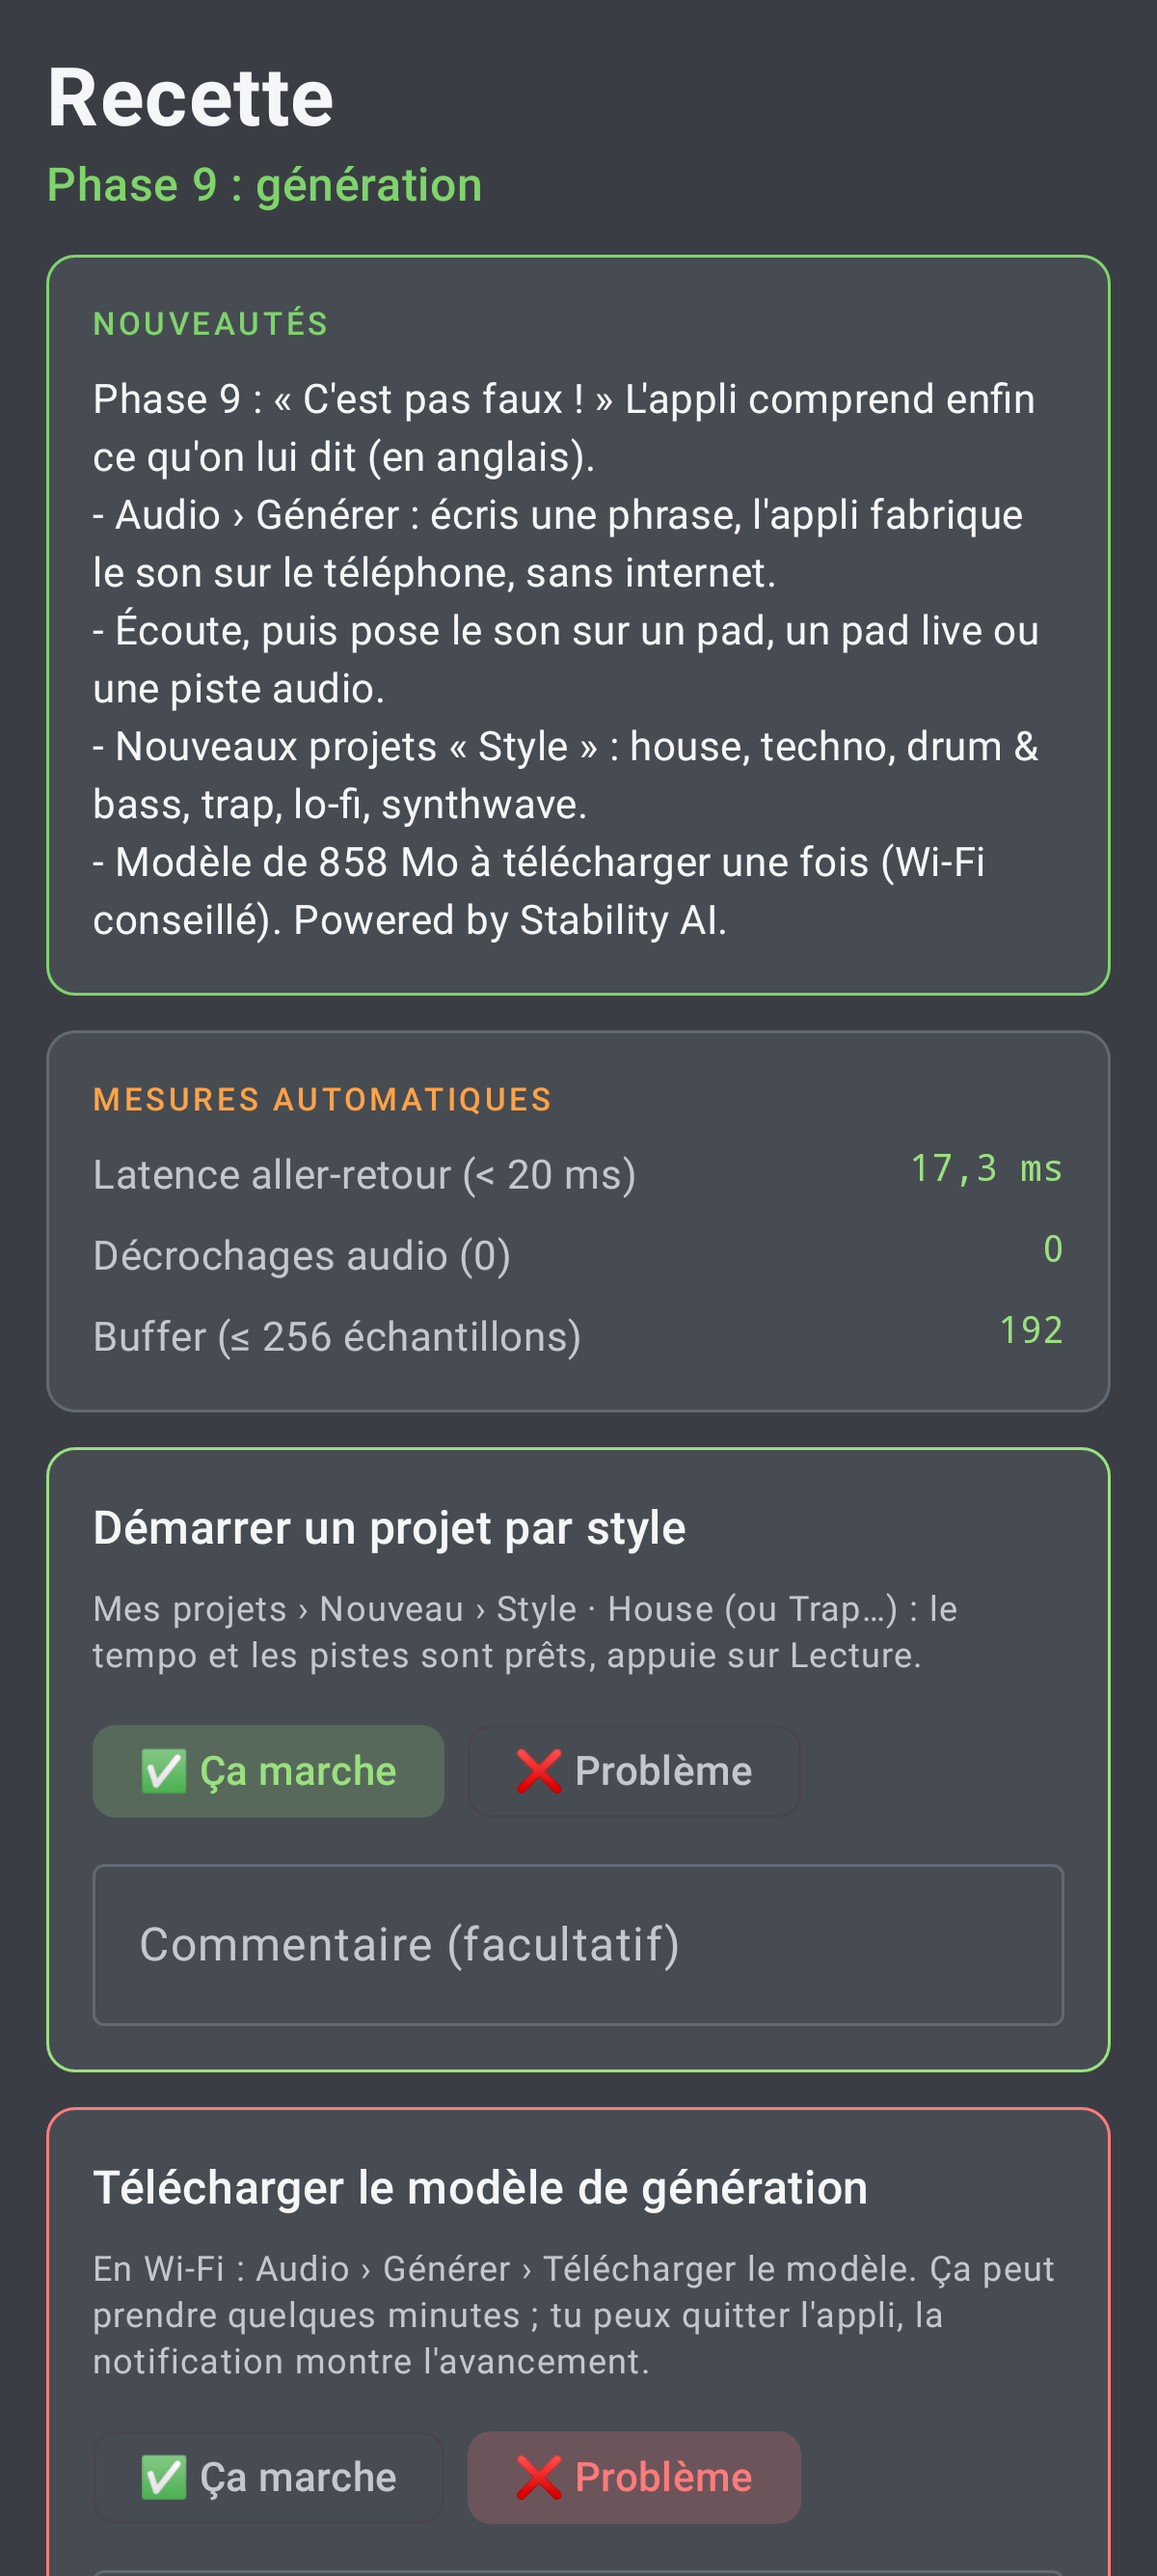
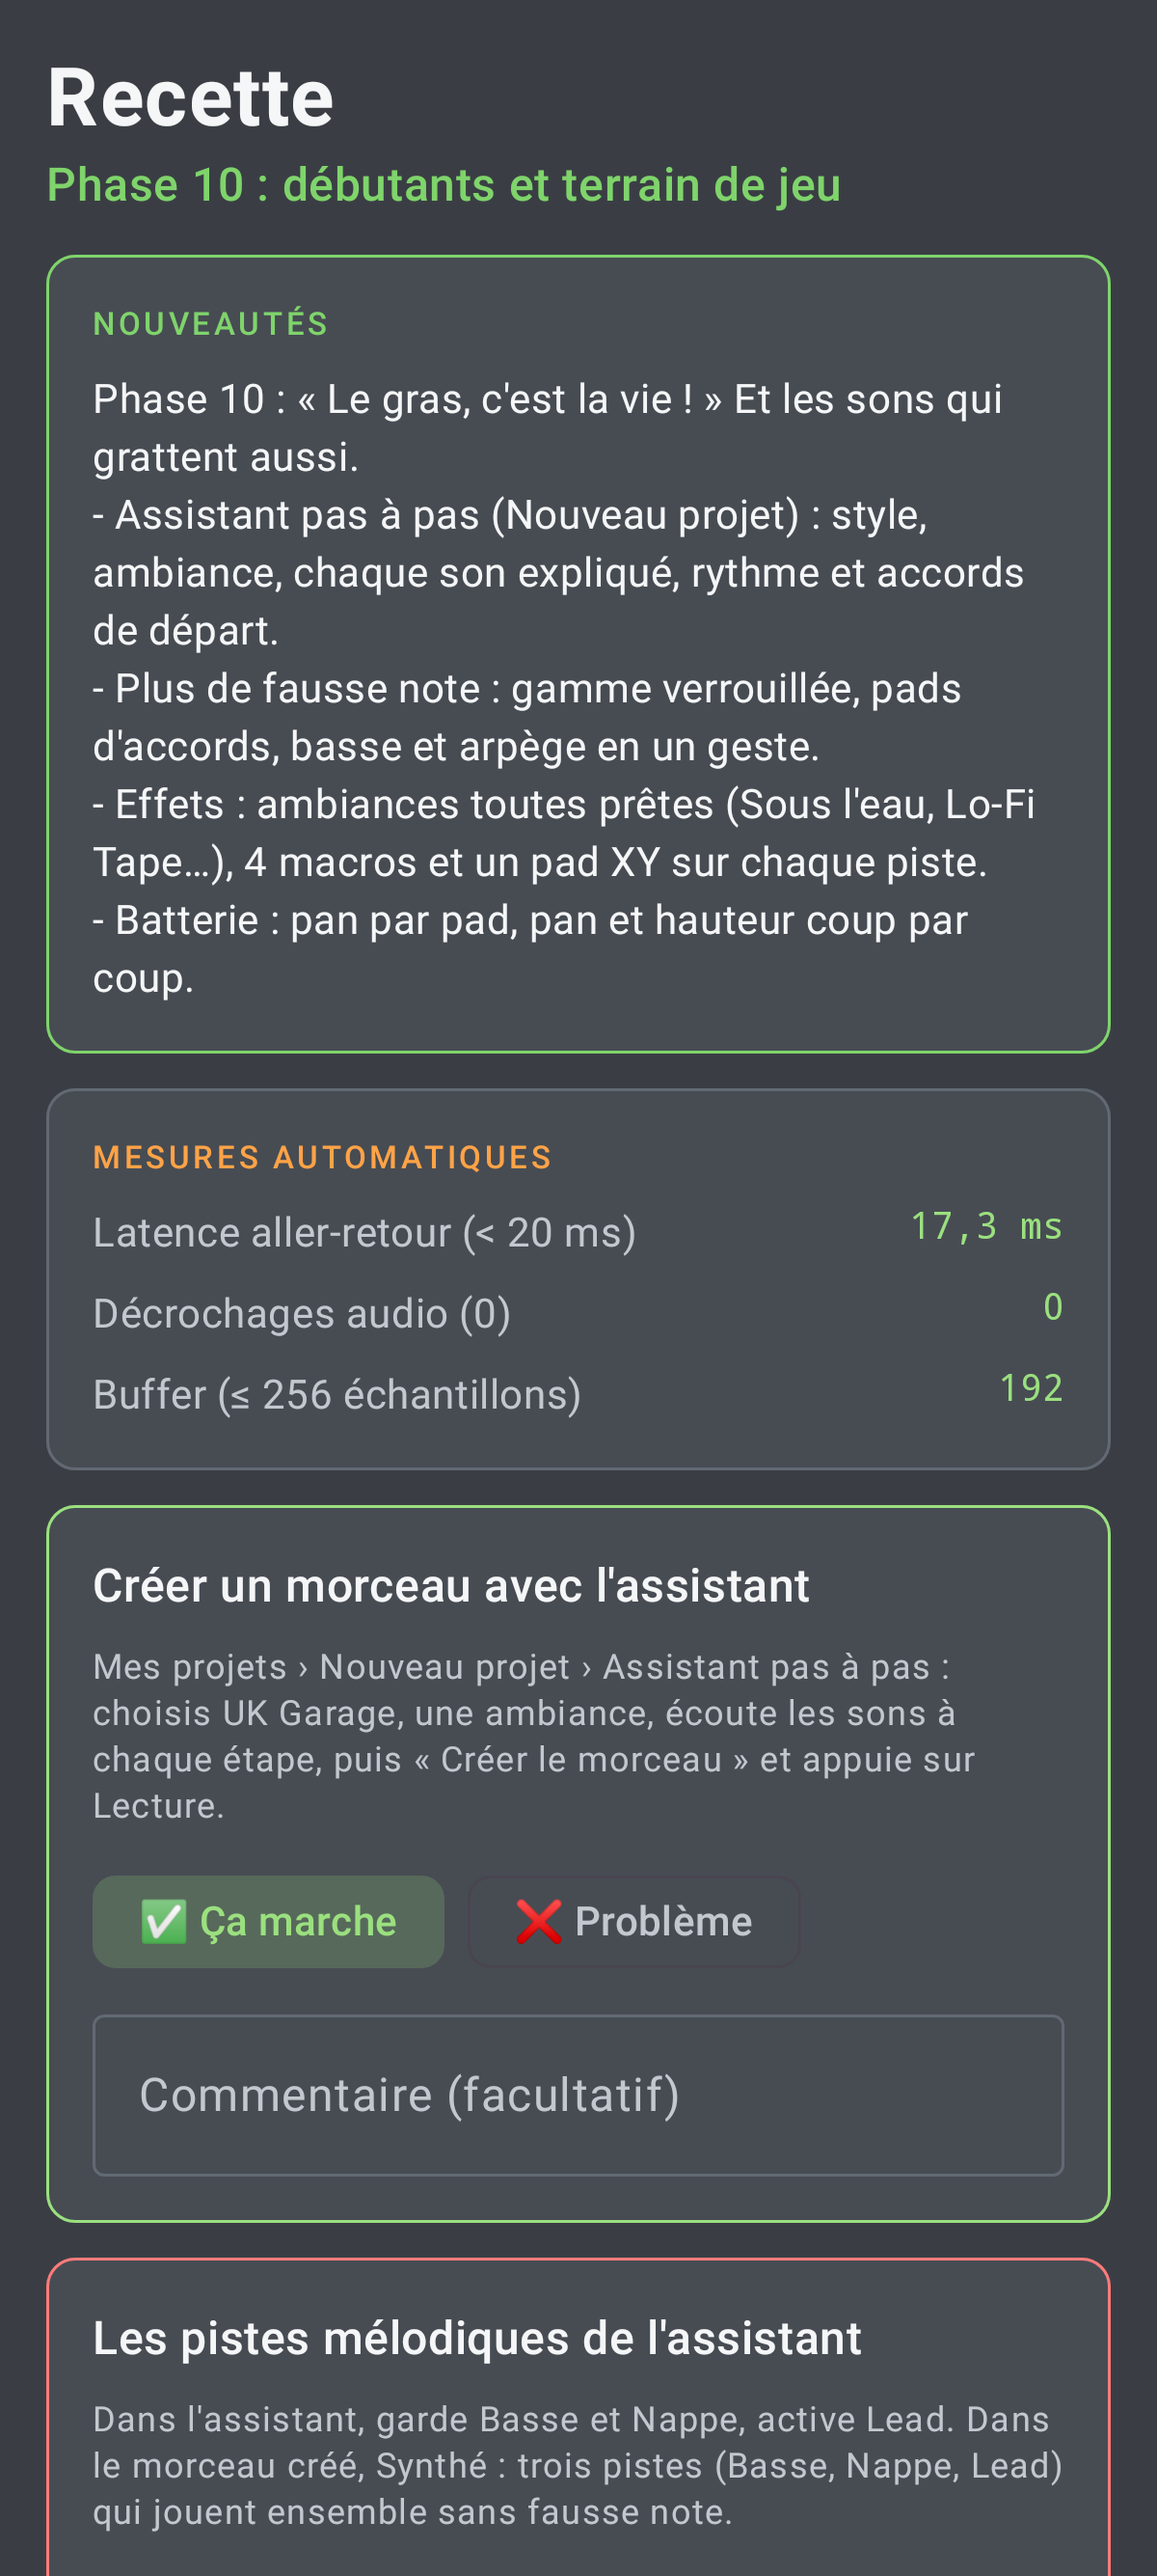
Phase 10: docs, changelog, test list
Claude-Session: https://claude.ai/code/session_01NqonxZBBysqqWBbnsC2VTP

diff --git a/docs/DECISIONS.md b/docs/DECISIONS.md
@@ -120,3 +120,9 @@
 - 2026-10-20 · Stable Audio Open Small par ONNX Runtime (déjà dans l'appli pour Demucs) plutôt que LiteRT : l'export officiel LiteRT demande un compte Hugging Face accepté ; l'export ONNX tiers d'atauser001 (révision figée, licence Stability redistribuable avec LICENSE + NOTICE) marche sans. Retour arrière : exporter en LiteRT nous-mêmes.
 - 2026-10-20 · Allègement int8 : conditionneur T5 entier, DiT seulement les matrices des couches transformer (par canal), décodeur en float. Tout en int8 abîmait le son plus qu'un changement de graine. 858 Mo à télécharger, pic mémoire mesuré 1,4 Go pour 11 s (réserve d'ONNX coupée). Le modèle se télécharge par le service de séparation (premier plan, reprise fichier par fichier) ; la génération elle-même tourne dans l'appli (quelques secondes).
 - 2026-10-20 · Génération : textes en anglais (le modèle comprend mal le français), exemples en français qui remplissent la phrase anglaise au tempo du projet ; 1 à 11 s ; écoute hors moteur (AudioTrack Android), puis pose sur le pad choisi, un pad live libre ou une piste audio libre.
+- 2026-10-20 · Batterie en stéréo (pan par pad, pan et hauteur par coup) : SetDrumHit remet pan et hauteur à zéro, une commande SetDrumStepDetail ne suit que pour les coups qui en ont, la file de commandes ne grossit pas. Hauteur par coup : sons importés seulement (les sons synthétisés n'ont pas de réglage de hauteur).
+- 2026-10-20 · Assistant pas à pas : il ne compose pas, il guide (rôle de chaque ligne, son de la bibliothèque) et pose des rythmes et accords d'école. Les sons intégrés sont rendus par le moteur hors ligne pour l'écoute ; un son posé sur un autre pad que le sien est copié en fichier dans le projet.
+- 2026-10-20 · Packs de sons : un index sur notre Release, épinglé par SHA-256 dans le code une fois publié (null avant : l'appli dit « bientôt »), chaque pack .zip vérifié par son empreinte, plat (pas de dossiers), supprimable à tout moment. Fabriqués par Stable Audio Open (sorties libres d'usage selon la licence Stability) plutôt que des packs du web, rarement redistribuables.
+- 2026-10-20 · Verrouillage de gamme : touches hors gamme muettes plutôt que cachées (le clavier garde sa forme, on voit la gamme) ; MIDI recalé sur la note la plus proche.
+- 2026-10-20 · Effets créatifs : 4 macros par voie dans le moteur après les inserts (filtre, saturation à volume constant, chorus, envois) plutôt que de piloter les inserts existants : elles marchent quelle que soit la chaîne, au repos le son est identique à l'échantillon près. Ambiances = inserts + envois + macros d'un coup.
+

diff --git a/docs/PROGRESS.md b/docs/PROGRESS.md
@@ -105,5 +105,14 @@
   - 9.2 fait : 6 projets « Style » (house, techno, drum & bass, trap, lo-fi, synthwave) dans Nouveau projet.
   - 9.1 fait : Stable Audio Open Small sur le téléphone (ONNX Runtime, int8 partiel, 858 Mo sur la Release `modele-stable-audio-open-small-1`), tokeniseur T5 en Kotlin, Audio › Générer (phrase, exemples, durée 1 à 11 s, écoute, pose sur pad / pad live / piste audio). Test Linux : `STABLE_AUDIO_DIR=… ./scripts/separation-tests.sh`.
 
+- Phase 9 fusionnée (PR #19).
+- Phase 10 (branche ccr-80af1a1b-mn0wec), demandes de Benjamin pendant ses essais :
+  - 10.1 batterie stéréo : pan par pad, pan et hauteur par coup (outils « Pan » et « Hauteur » de la grille) ;
+  - 10.2 assistant pas à pas (Mes projets › Nouveau › Assistant) : 16 styles, ambiance, rôle de chaque ligne, sons intégrés (rendus par le moteur pour l'écoute) ou packs, basse / nappe / lead avec écoute de la première mesure ;
+  - 10.3 verrouillage de gamme, pads d'accords (Synthé › Pads), progressions en accords / basse / arpège ;
+  - 10.4 effets créatifs : ambiances, macros Couleur / Saleté / Mouvement / Espace dans le moteur, pad XY, bouton Effets sur chaque piste.
+  - Packs de sons : format, index épinglé, téléchargement et suppression prêts ; aucun pack publié (PackStore.INDEX = null).
+
 ## Prochaine étape exacte
-1. Phase 9 : PR, relecture de fin de phase, CI verte, fusion. Ensuite : Ableton Link (reporté) et restes de REVIEW.md.
+1. Phase 10 : PR, relecture de fin de phase, CI verte, fusion.
+2. Phase 11 : fabriquer les packs (scripts/packs/generate_pack.py, prototype lent en fp32 : passer en int8 et en matrice CI par style), épingler l'index, rayon de sons dans le pad.

diff --git a/docs/ROADMAP.md b/docs/ROADMAP.md
@@ -85,3 +85,16 @@ Feu vert de Benjamin (D4 = A) : fusion de la pull request en fin de phase.
 ## Phase 9 : génération
 - [x] 9.1 Stable Audio Open Small (ONNX Runtime, voir DECISIONS.md)
 - [x] 9.2 Modèles par genre
+
+## Phase 10 : débutants et terrain de jeu (demandes de recette)
+- [x] 10.1 Batterie : pan par pad, pan et hauteur par coup, sons en stéréo
+- [x] 10.2 Assistant « Nouveau morceau, pas à pas » : style, ambiance, une étape par ligne (rôle expliqué, son de la bibliothèque), basse / nappe / lead, rythme et accords de départ
+- [x] 10.3 Mélodie sans fausse note : verrouillage de gamme (clavier, MIDI), pads d'accords, progressions en accords / ligne de basse / arpège
+- [x] 10.4 Effets créatifs : 21 ambiances toutes prêtes, 4 macros par piste, pad XY, bouton Effets sur chaque piste
+- [ ] 10.5 Packs de sons par style et sous-style (téléchargement à la demande, suppression) : à fabriquer (phase 11)
+
+## Phase 11 : bibliothèques de sons
+- [ ] 11.1 Packs par style et sous-style fabriqués et hébergés (kicks, caisses, claps, charleys, percus, 808, basses)
+- [ ] 11.2 Rayon de sons dans le pad (parcourir, écouter, poser), gestion des packs (taille, supprimer)
+- [ ] 11.3 Ableton Link (reporté)
+
